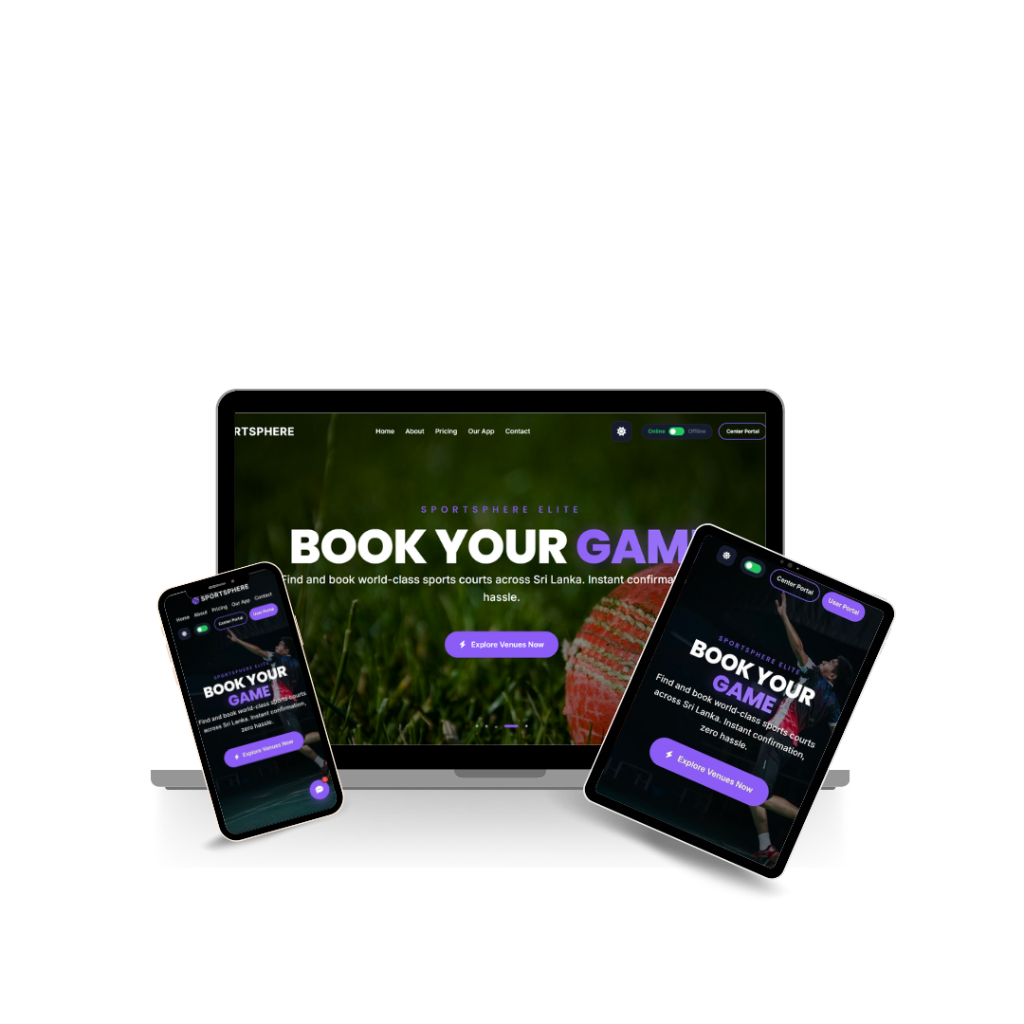
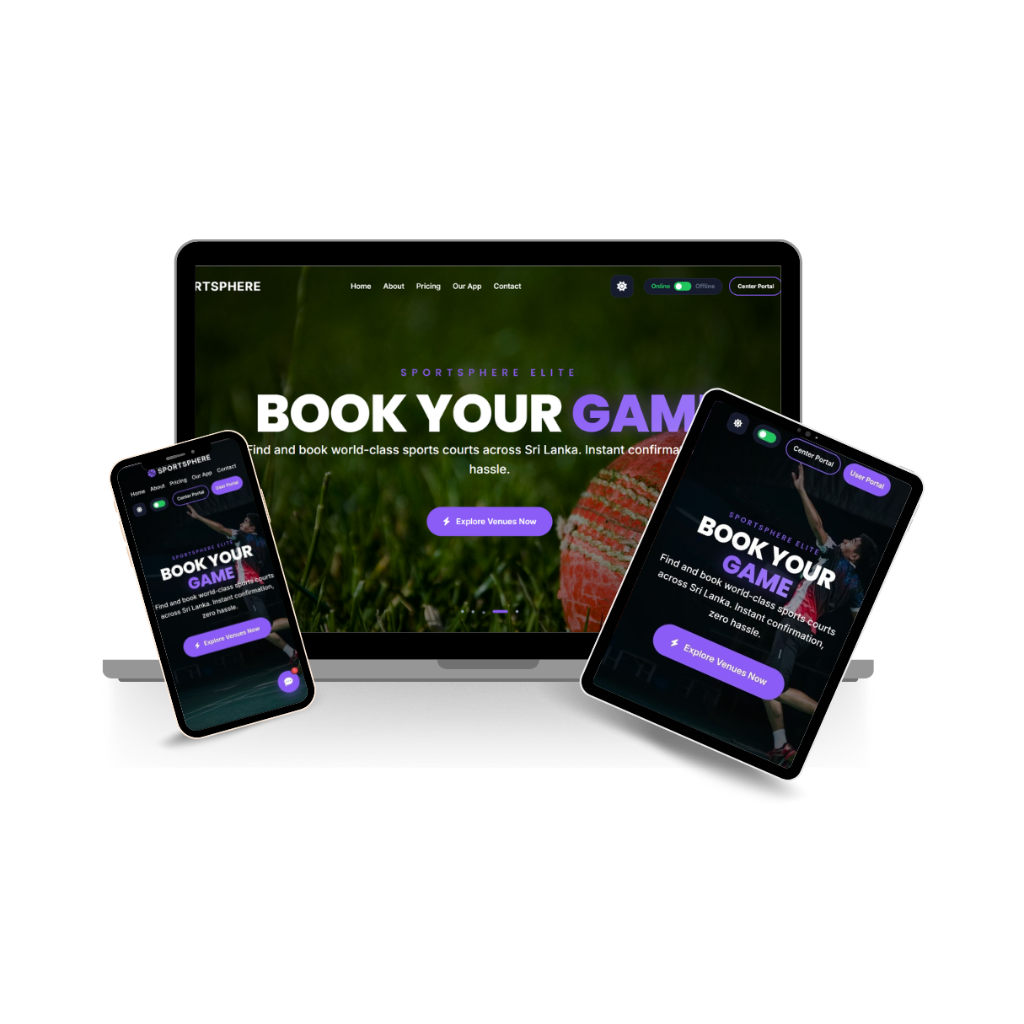
Update application section with new user provided mockup

diff --git a/index.html b/index.html
@@ -17,7 +17,7 @@
     <meta name="apple-mobile-web-app-title" content="SportSphere">
     <link rel="apple-touch-icon" href="favicon.png">
     
-    <!-- v1.0.9-user-mockup-v01 -->
+    <!-- v1.1.0-new-mockup-v01 -->
 </head>
 
 <body id="home">

diff --git a/sw.js b/sw.js
@@ -1,4 +1,4 @@
-const CACHE_NAME = 'ss-v7';
+const CACHE_NAME = 'ss-v8';
 const ASSETS = [
   'index.html',
   'css/style.css',
